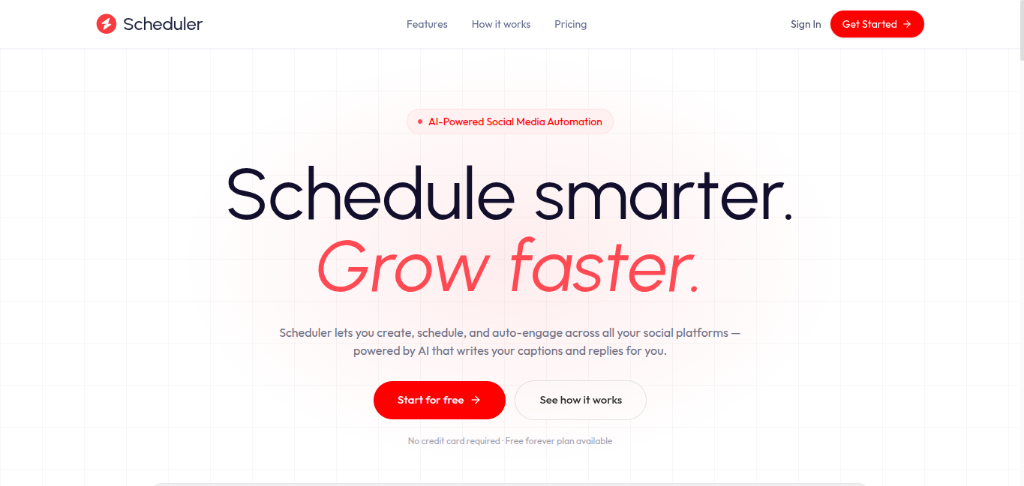
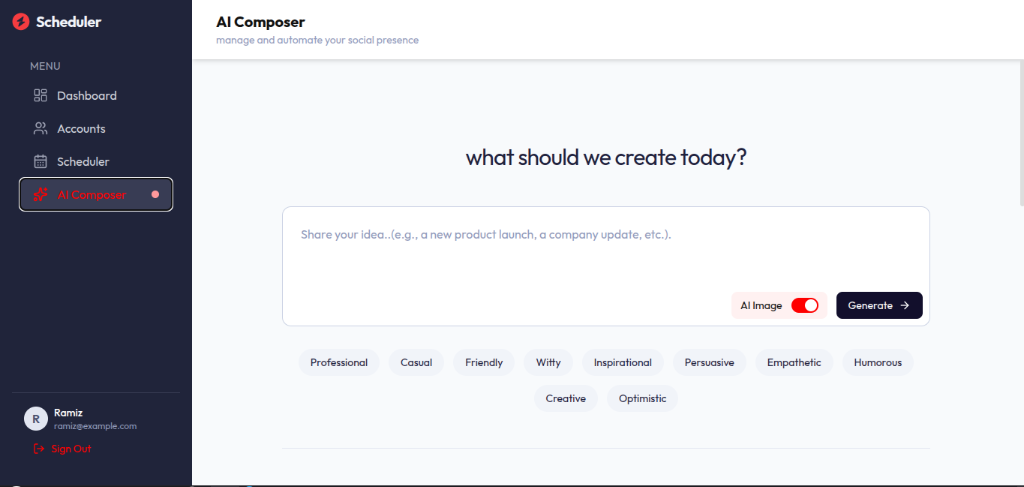
update readme

diff --git a/readme.md b/readme.md
@@ -7,7 +7,7 @@ A full-stack application that lets you **generate AI-powered social media posts*
 ## 📸 Screenshots
 
 ### 🏠 Landing Page
-![Landing Page](screenshots/home.png)
+![Landing Page](screenshots/Landing.png)
 
 ### 📆 Post Scheduler
 ![Post Scheduler](screenshots/scheduler.png)
